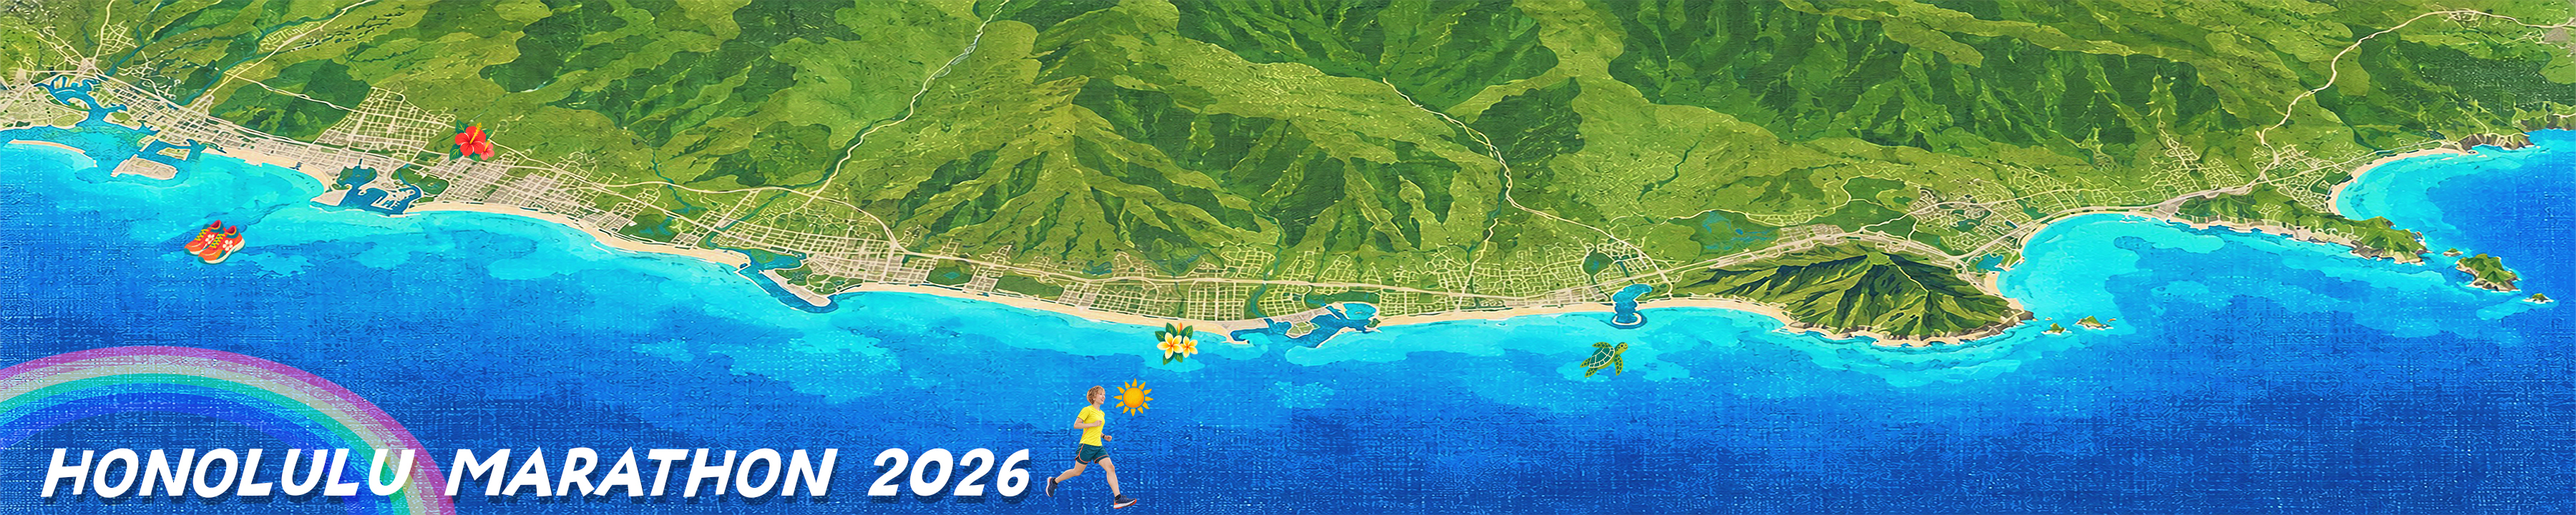
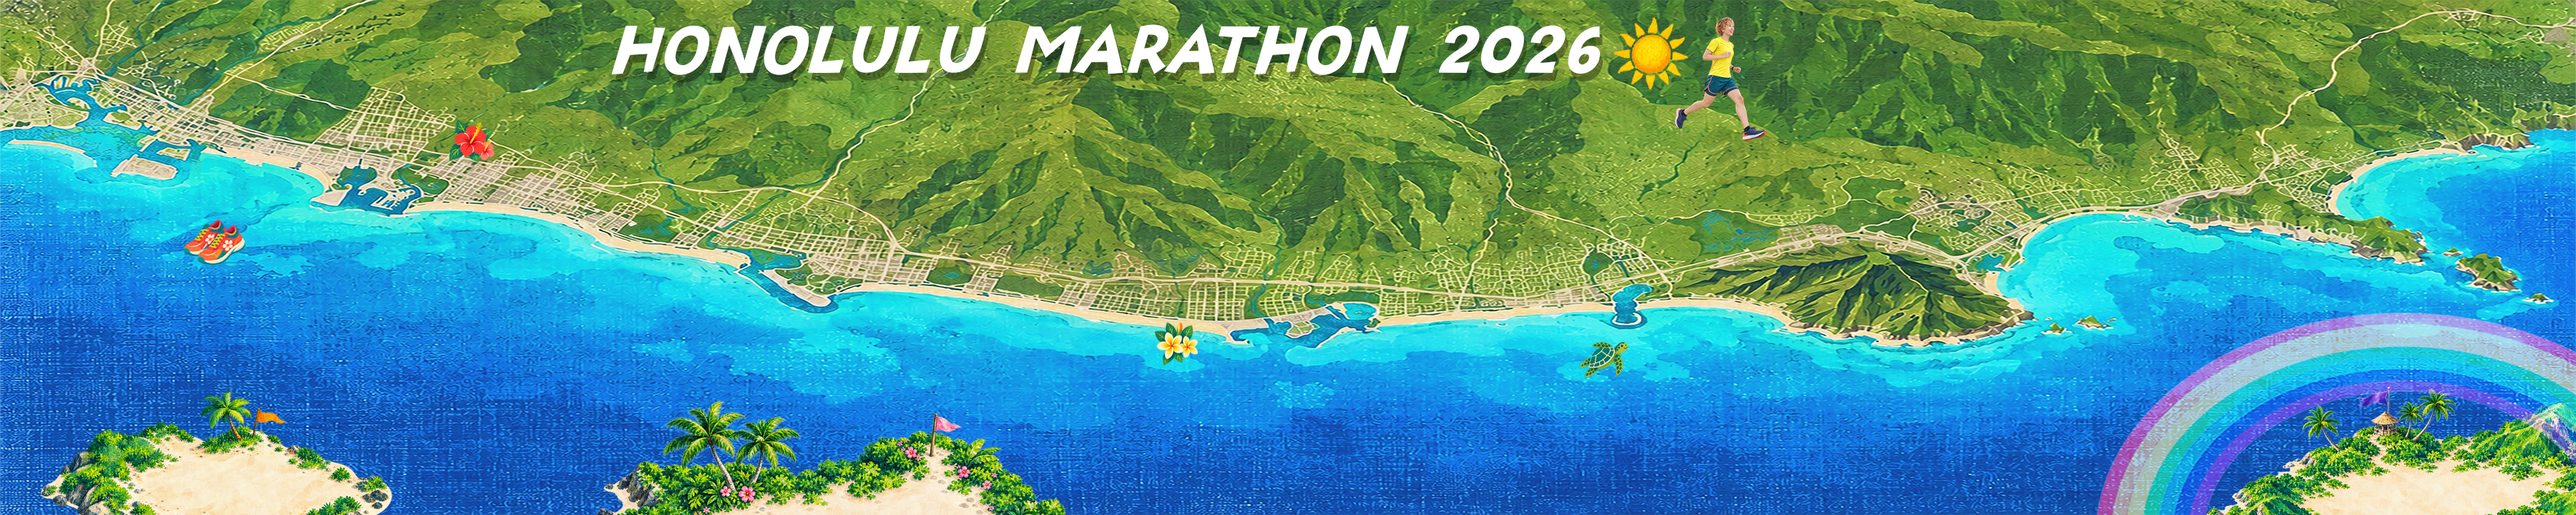
Add files via upload

Changed region(s): [[0.0, 0.6722, 0.4667, 1.0], [0.8089, 0.6111, 1.0, 1.0], [0.2178, 0.0306, 0.6844, 0.275]]

diff --git a/partner-map.html b/partner-map.html
@@ -41,6 +41,7 @@ h1{margin:0;font-size:clamp(38px,7.5vw,82px);line-height:1.05;letter-spacing:-.0
 .map-scroll{position:relative;overflow-x:auto;overflow-y:hidden;-webkit-overflow-scrolling:touch;scroll-behavior:smooth;overscroll-behavior-inline:contain;scrollbar-color:var(--sun) rgba(255,255,255,.55);scrollbar-width:thin}.map-scroll::-webkit-scrollbar{height:11px}.map-scroll::-webkit-scrollbar-track{background:rgba(255,255,255,.58)}.map-scroll::-webkit-scrollbar-thumb{border:3px solid rgba(255,255,255,.75);border-radius:20px;background:var(--sun)}
 .map-stage{width:3600px;height:720px}.course-map{display:block;width:100%;height:100%;font-family:"Zen Kaku Gothic New","Yu Gothic",sans-serif}.map-label{fill:#1E3557;font-weight:900;letter-spacing:.1em}.map-label.light{fill:#fff}.map-sub-label{fill:#4C6A77;font-size:18px;font-weight:700}.route-shadow{fill:none;stroke:rgba(18,75,101,.18);stroke-width:33;stroke-linecap:round;stroke-linejoin:round}.route-bed{fill:none;stroke:#fff;stroke-width:26;stroke-linecap:round;stroke-linejoin:round}.route-segment{fill:none;stroke:#B8CDD3;stroke-width:14;stroke-linecap:round;stroke-dasharray:7 10;transition:stroke .4s}.route-segment.filled{stroke:var(--segment-color);stroke-dasharray:none;filter:url(#route-glow)}
 .route-marker .halo{fill:none;stroke:rgba(255,255,255,.6);stroke-width:10}.route-marker .dot{fill:#fff;stroke:#8DAEBB;stroke-width:5}.route-marker .number{fill:#4C6975;font-size:14px;font-weight:900;text-anchor:middle;dominant-baseline:central}.route-marker.filled .dot{fill:var(--marker-color);stroke:#fff;stroke-width:5;filter:url(#marker-shadow)}.route-marker.filled .number{fill:#fff}.partner-connector{stroke:var(--label-color);stroke-width:3;stroke-dasharray:5 5}.partner-card{cursor:default}.partner-card[href]{cursor:pointer}.partner-card-bg{fill:var(--label-color);stroke:#fff;stroke-width:2;filter:url(#marker-shadow);transition:fill .2s}.partner-card[href]:hover .partner-card-bg{fill:#142A49}.partner-card-text{fill:#fff;font-size:12px;font-weight:500;text-anchor:middle;dominant-baseline:central;pointer-events:none}.partner-card-arrow{fill:#fff;font-size:9px;text-anchor:middle;dominant-baseline:central;pointer-events:none}.course-spot{pointer-events:none}.course-spot text{fill:#1E3557;font-size:13px;font-weight:900;text-anchor:middle;paint-order:stroke;stroke:rgba(255,255,255,.94);stroke-width:5px;stroke-linejoin:round}.course-spot .spot-km{fill:#FF557E;font-size:11px;letter-spacing:.05em}.start-flag,.goal-flag{filter:url(#marker-shadow)}.start-burst{stroke:#fff;stroke-width:3;stroke-linejoin:round;transform-box:fill-box;transform-origin:center;animation:start-spin 12s linear infinite}
+.sponsor-label{filter:url(#marker-shadow)}.sponsor-ribbon{fill:var(--island-color);stroke:#fff;stroke-width:2;stroke-linejoin:round;filter:drop-shadow(0 0 5px rgba(255,255,255,.95)) drop-shadow(0 0 10px var(--island-color))}.sponsor-ribbon-text{fill:#fff;font-size:14px;font-weight:900;letter-spacing:.04em;text-anchor:middle;dominant-baseline:central}.sponsor-name-card{fill:#1E3557;stroke:#fff;stroke-width:3}.sponsor-name{fill:#fff;font-size:14px;font-weight:500;text-anchor:middle;dominant-baseline:central}.sponsor-open{fill:#fff;font-size:14px;font-weight:700;text-anchor:middle;dominant-baseline:central;opacity:.86}.sponsor-link:hover .sponsor-name{text-decoration:underline}.sponsor-arrow{fill:#fff;font-size:10px;font-weight:900;text-anchor:middle;dominant-baseline:central}
 @keyframes start-spin{to{transform:rotate(360deg)}}
 .message{max-width:720px;margin:38px auto 0;text-align:center}.message h2{margin:0 0 12px;font-size:clamp(25px,4vw,38px)}.message p{margin:0;color:var(--sub)}
 .actions{display:flex;justify-content:center;gap:12px;flex-wrap:wrap;margin-top:28px}.button{display:inline-flex;align-items:center;justify-content:center;min-height:54px;padding:12px 24px;border-radius:999px;text-decoration:none;font-weight:900}.button.primary{background:linear-gradient(90deg,var(--sky),var(--mint));color:#fff;box-shadow:0 14px 28px -15px rgba(31,165,222,.75)}.button.secondary{background:#fff;border:2px solid var(--ink)}
@@ -81,8 +82,9 @@ footer{padding:30px 18px max(30px,env(safe-area-inset-bottom));text-align:center
 <filter id="marker-shadow" x="-70%" y="-70%" width="240%" height="240%"><feDropShadow dx="0" dy="5" stdDeviation="5" flood-color="#17395D" flood-opacity=".28"/></filter>
 <linearGradient id="start-gradient" x1="0%" y1="0%" x2="100%" y2="0%"><stop offset="0%" stop-color="#ffbb1e"/><stop offset="100%" stop-color="#ff9158"/></linearGradient>
 </defs>
-<image href="partner-map-bg.jpg?v=20261018-1" x="0" y="0" width="3600" height="720" preserveAspectRatio="none"/>
+<image href="partner-map-bg.jpg?v=20261019-3" x="0" y="0" width="3600" height="720" preserveAspectRatio="none"/>
 <rect width="3600" height="720" fill="#16395D" opacity=".08"/>
+<g id="sponsor-island-layer"></g>
 <g id="route-base-layer"></g>
 <g id="route-segment-layer"></g>
 <g id="route-spot-layer"></g>
@@ -103,11 +105,12 @@ footer{padding:30px 18px max(30px,env(safe-area-inset-bottom));text-align:center
 </main>
 <footer>Make a Move, World is Yours.｜人生は可能性に溢れている</footer>
 
-<script src="partner-data.js?v=20261018-4"></script>
+<script src="partner-data.js?v=20261019-3"></script>
 <script>
 (function(){
   var data=window.PARTNER_MAP_DATA||{updated:"—",partners:{}};
   var partners=data.partners||{};
+  var sponsorIslands=data.sponsorIslands||{};
   var colors=["#1FA5DE","#2FC9A0","#FFB92E","#FF9A5C","#FF6B8B","#8E6BFF"];
   var labelColors=["#1E3557"];
   var svgNS="http://www.w3.org/2000/svg";
@@ -115,6 +118,7 @@ footer{padding:30px 18px max(30px,env(safe-area-inset-bottom));text-align:center
   var segmentLayer=document.getElementById("route-segment-layer");
   var spotLayer=document.getElementById("route-spot-layer");
   var markerLayer=document.getElementById("route-marker-layer");
+  var islandLayer=document.getElementById("sponsor-island-layer");
   function svgElement(tag,attributes){
     var element=document.createElementNS(svgNS,tag);
     Object.keys(attributes||{}).forEach(function(key){element.setAttribute(key,attributes[key]);});
@@ -162,6 +166,68 @@ footer{padding:30px 18px max(30px,env(safe-area-inset-bottom));text-align:center
     }
     return lines.length?lines:[""];
   }
+  function sponsorEntries(value){
+    var entries=Array.isArray(value)?value:(value?[value]:[]);
+    return entries.map(function(entry){
+      if(typeof entry==="string") return{name:entry.trim(),url:""};
+      var name=String(entry&&entry.name||"").trim();
+      var url=String(entry&&entry.url||"").trim();
+      if(url&&!/^(https?:\/\/|\.\.?\/|#)/i.test(url)) url="";
+      return{name:name,url:url};
+    }).filter(function(entry){return entry.name;});
+  }
+  function shortSponsorName(value){
+    var text=String(value).replace(/\s*\n\s*/g," ").trim();
+    return text.length>20?text.slice(0,19)+"…":text;
+  }
+  function addSponsorLabel(plan){
+    var entries=sponsorEntries(sponsorIslands[plan.id]);
+    var group=svgElement("g",{"class":"sponsor-label","aria-label":plan.title+" "+plan.amount+" "+(entries.length?entries.map(function(entry){return entry.name;}).join("、"):"募集中")});
+    group.style.setProperty("--island-color",plan.color);
+
+    var ribbonLeft=plan.x-plan.ribbonWidth/2;
+    var ribbonRight=plan.x+plan.ribbonWidth/2;
+    var ribbonBottom=plan.ribbonY+38;
+    group.appendChild(svgElement("path",{d:"M "+ribbonLeft+" "+plan.ribbonY+" L "+ribbonRight+" "+plan.ribbonY+" L "+(ribbonRight-18)+" "+(plan.ribbonY+19)+" L "+ribbonRight+" "+ribbonBottom+" L "+ribbonLeft+" "+ribbonBottom+" L "+(ribbonLeft+18)+" "+(plan.ribbonY+19)+" Z","class":"sponsor-ribbon"}));
+    var ribbonText=svgElement("text",{x:plan.x,y:plan.ribbonY+20,"class":"sponsor-ribbon-text"});
+    ribbonText.textContent=plan.title+"　"+plan.amount;
+    group.appendChild(ribbonText);
+
+    var shown=entries.slice(0,2);
+    var cardHeight=shown.length>1?72:56;
+    group.appendChild(svgElement("rect",{x:plan.x-plan.cardWidth/2,y:plan.nameY,width:plan.cardWidth,height:cardHeight,rx:14,ry:14,"class":"sponsor-name-card"}));
+    if(!shown.length){
+      var open=svgElement("text",{x:plan.x,y:plan.nameY+cardHeight/2,"class":"sponsor-open"});
+      open.textContent="募集中";
+      group.appendChild(open);
+    }else{
+      var firstY=plan.nameY+cardHeight/2-(shown.length-1)*10;
+      shown.forEach(function(entry,index){
+        var holder=svgElement(entry.url?"a":"g",{"class":"sponsor-link"});
+        if(entry.url){
+          holder.setAttribute("href",entry.url);
+          holder.setAttribute("target","_blank");
+          holder.setAttribute("rel","noopener noreferrer");
+          holder.setAttribute("aria-label",entry.name+"のウェブサイトを開く");
+        }
+        var name=svgElement("text",{x:plan.x,y:firstY+index*20,"class":"sponsor-name"});
+        name.textContent=shortSponsorName(entry.name);
+        holder.appendChild(name);
+        if(entry.url){
+          var arrow=svgElement("text",{x:plan.x+plan.cardWidth/2-17,y:firstY+index*20,"class":"sponsor-arrow"});
+          arrow.textContent="↗";
+          holder.appendChild(arrow);
+        }
+        group.appendChild(holder);
+      });
+    }
+    islandLayer.appendChild(group);
+  }
+  [
+    {id:"challenge",x:580,ribbonY:575,nameY:626,ribbonWidth:300,cardWidth:250,title:"CHALLENGE PARTNER",amount:"30,000円",color:"#FF8A3D"},
+    {id:"official",x:1520,ribbonY:575,nameY:626,ribbonWidth:320,cardWidth:280,title:"OFFICIAL PARTNER",amount:"50,000円",color:"#FF6389"},
+    {id:"main",x:2970,ribbonY:565,nameY:616,ribbonWidth:340,cardWidth:310,title:"MAIN PARTNER",amount:"100,000円",color:"#8A63F6"}
+  ].forEach(addSponsorLabel);
   var routePath=points.map(function(p,i){return(i?"L":"M")+p.x.toFixed(1)+" "+p.y.toFixed(1);}).join(" ");
   baseLayer.appendChild(svgElement("path",{d:routePath,"class":"route-shadow"}));
   baseLayer.appendChild(svgElement("path",{d:routePath,"class":"route-bed"}));

diff --git a/partner-data.js b/partner-data.js
@@ -9,9 +9,20 @@
   3. このファイルを上書きアップロードします。
 
   空欄（""）の区間は「募集中」と表示されます。
+
+  PARTNER ISLAND 更新方法：
+  1. sponsorIslands内の該当コースへ掲載名とリンクを追加します。
+     例：challenge: [{ name: "株式会社サンプル", url: "https://example.com/" }],
+  2. 複数名の場合は { name: "...", url: "..." } をカンマ区切りで追加します。
+  3. 空の配列（[]）は「募集中」と表示されます。
 */
 window.PARTNER_MAP_DATA = {
   updated: "2026.10.19",
+  sponsorIslands: {
+    challenge: [], // 30,000円 CHALLENGE PARTNER
+    official: [],  // 50,000円 OFFICIAL PARTNER
+    main: []       // 100,000円 MAIN PARTNER（限定1〜2社）
+  },
   partners: {
     1: { name: "山下アキ\n株式会社さぁ行こう\nInstagram", url: "https://www.instagram.com/aki.yamashita_saaicou?xtok=d3diN21sNWh6bDV6&utm_source=qr" },
     2: { name: "山下アキ\n株式会社さぁ行こう\nアッ氣学", url: "https://youtu.be/yf1KnHLrPdk?si=2rSc2-aensWpWh89" },
